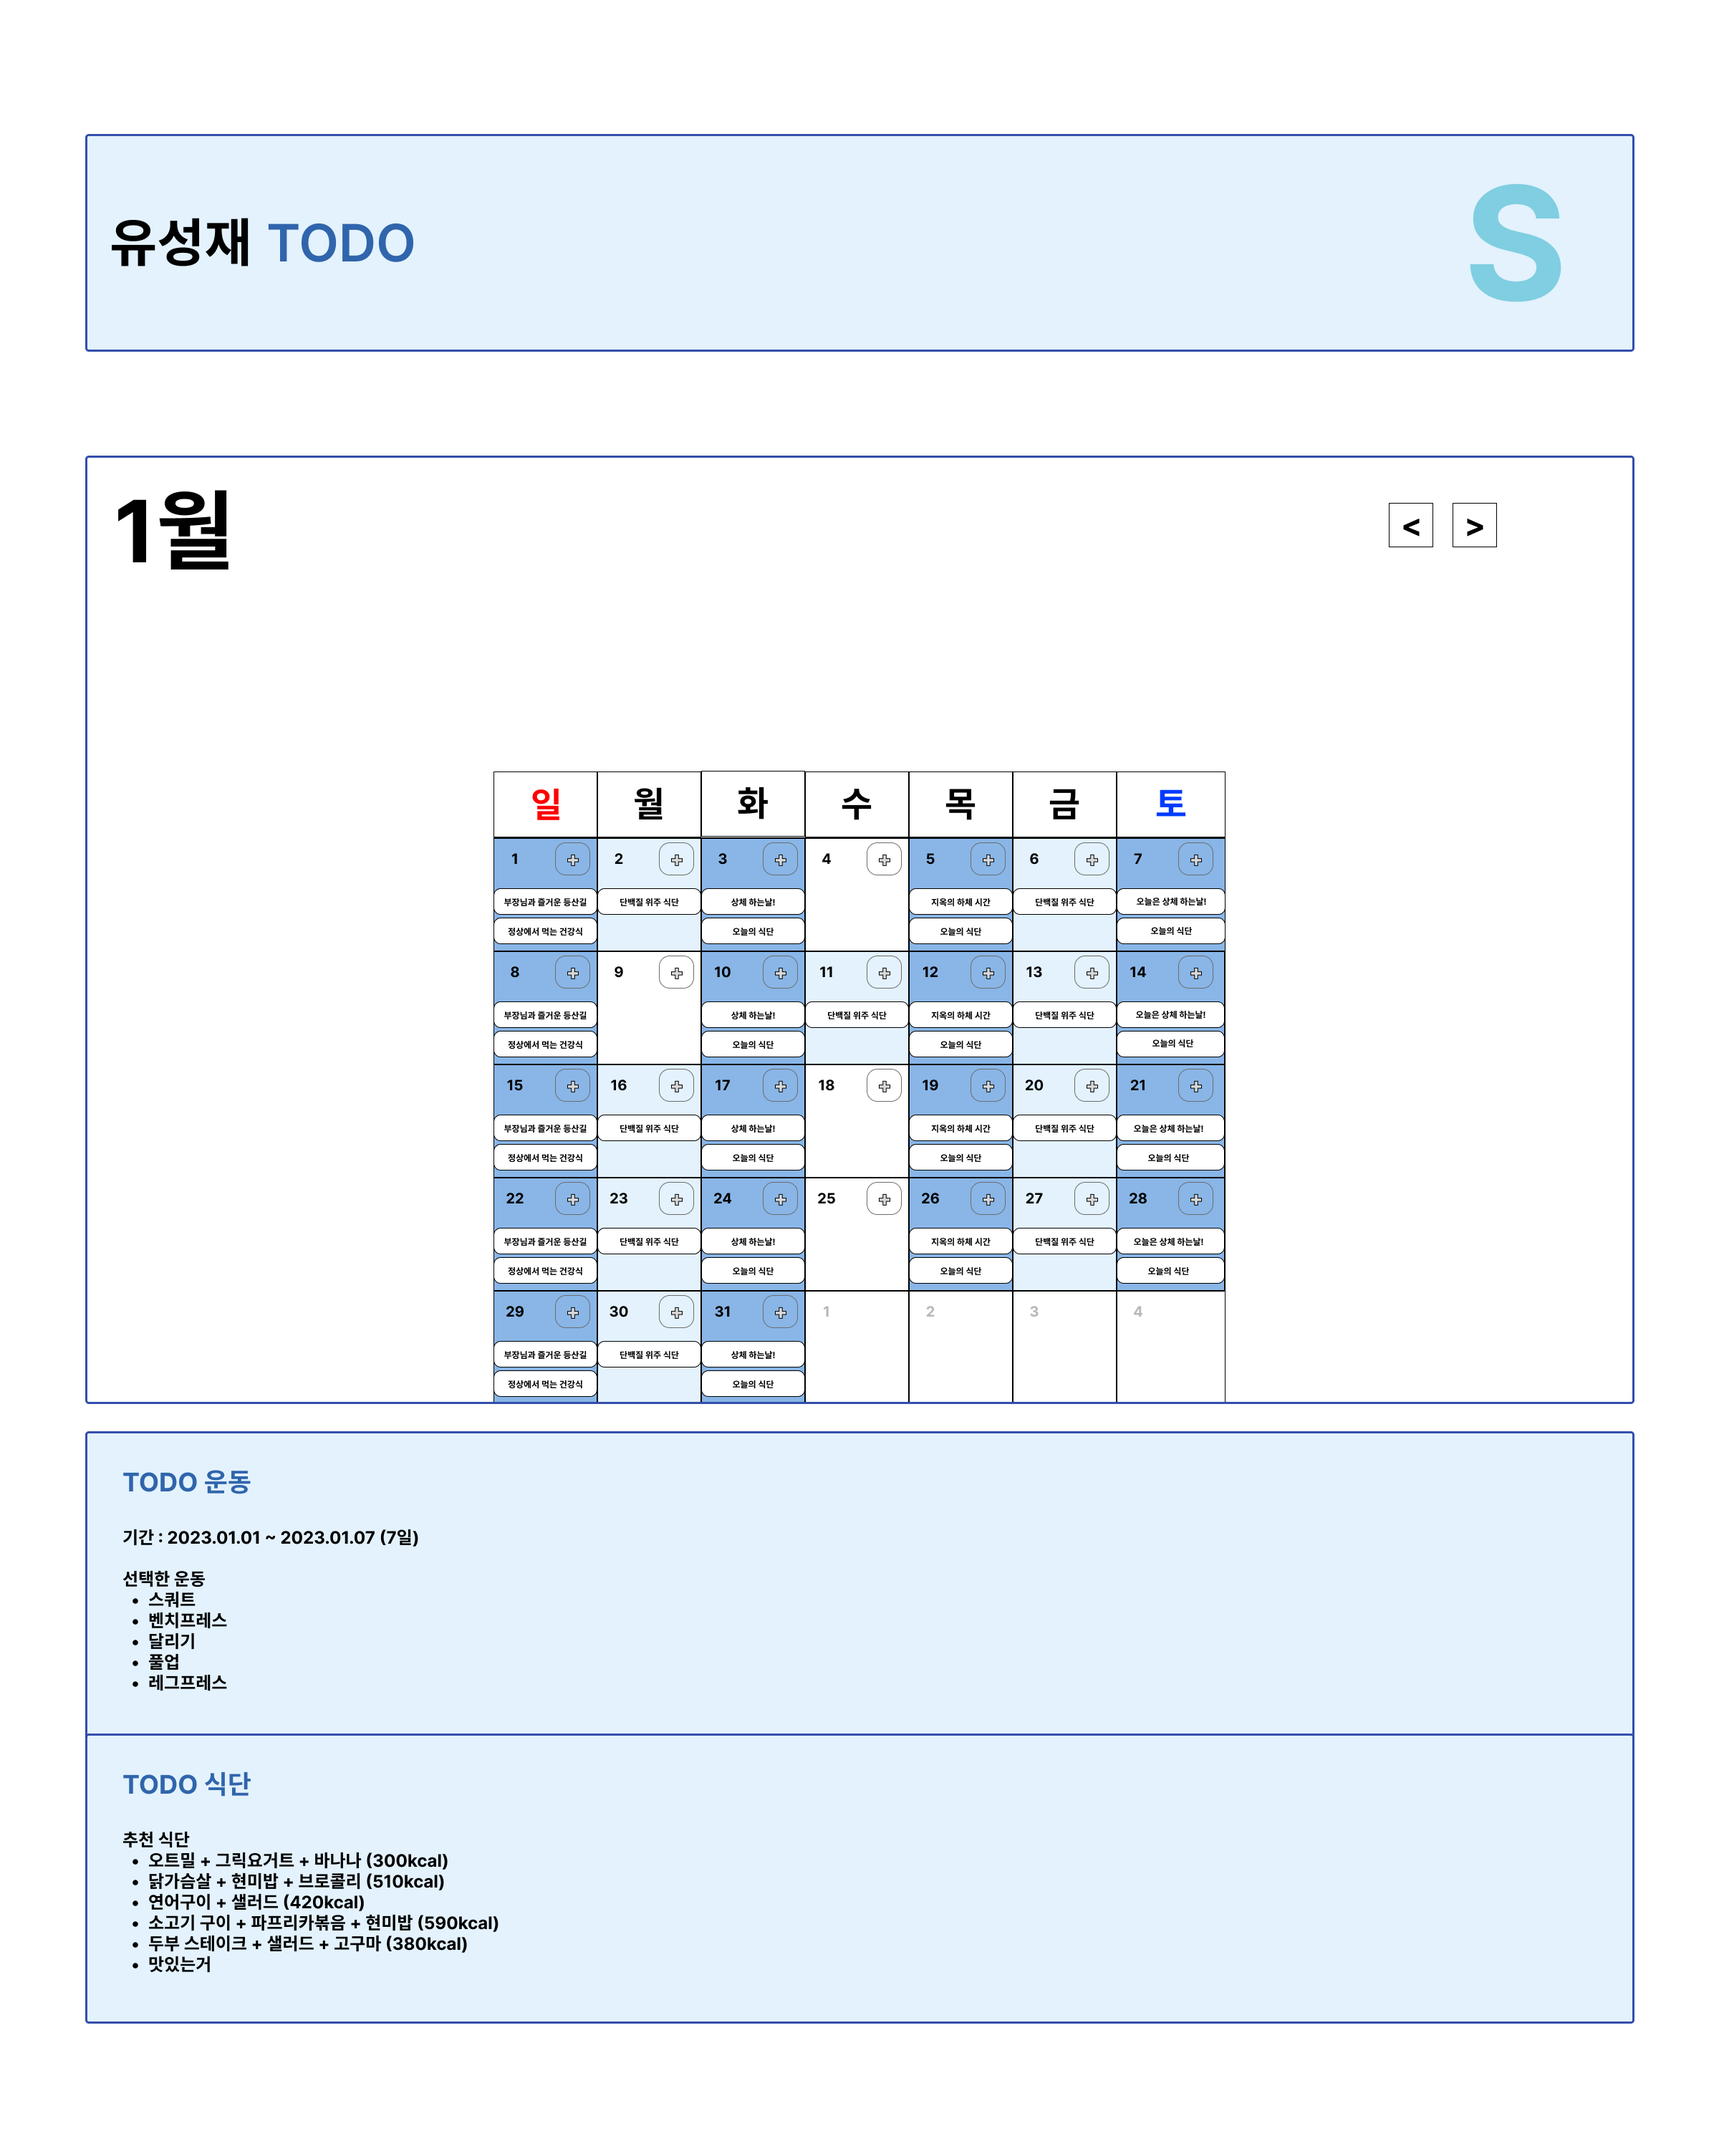
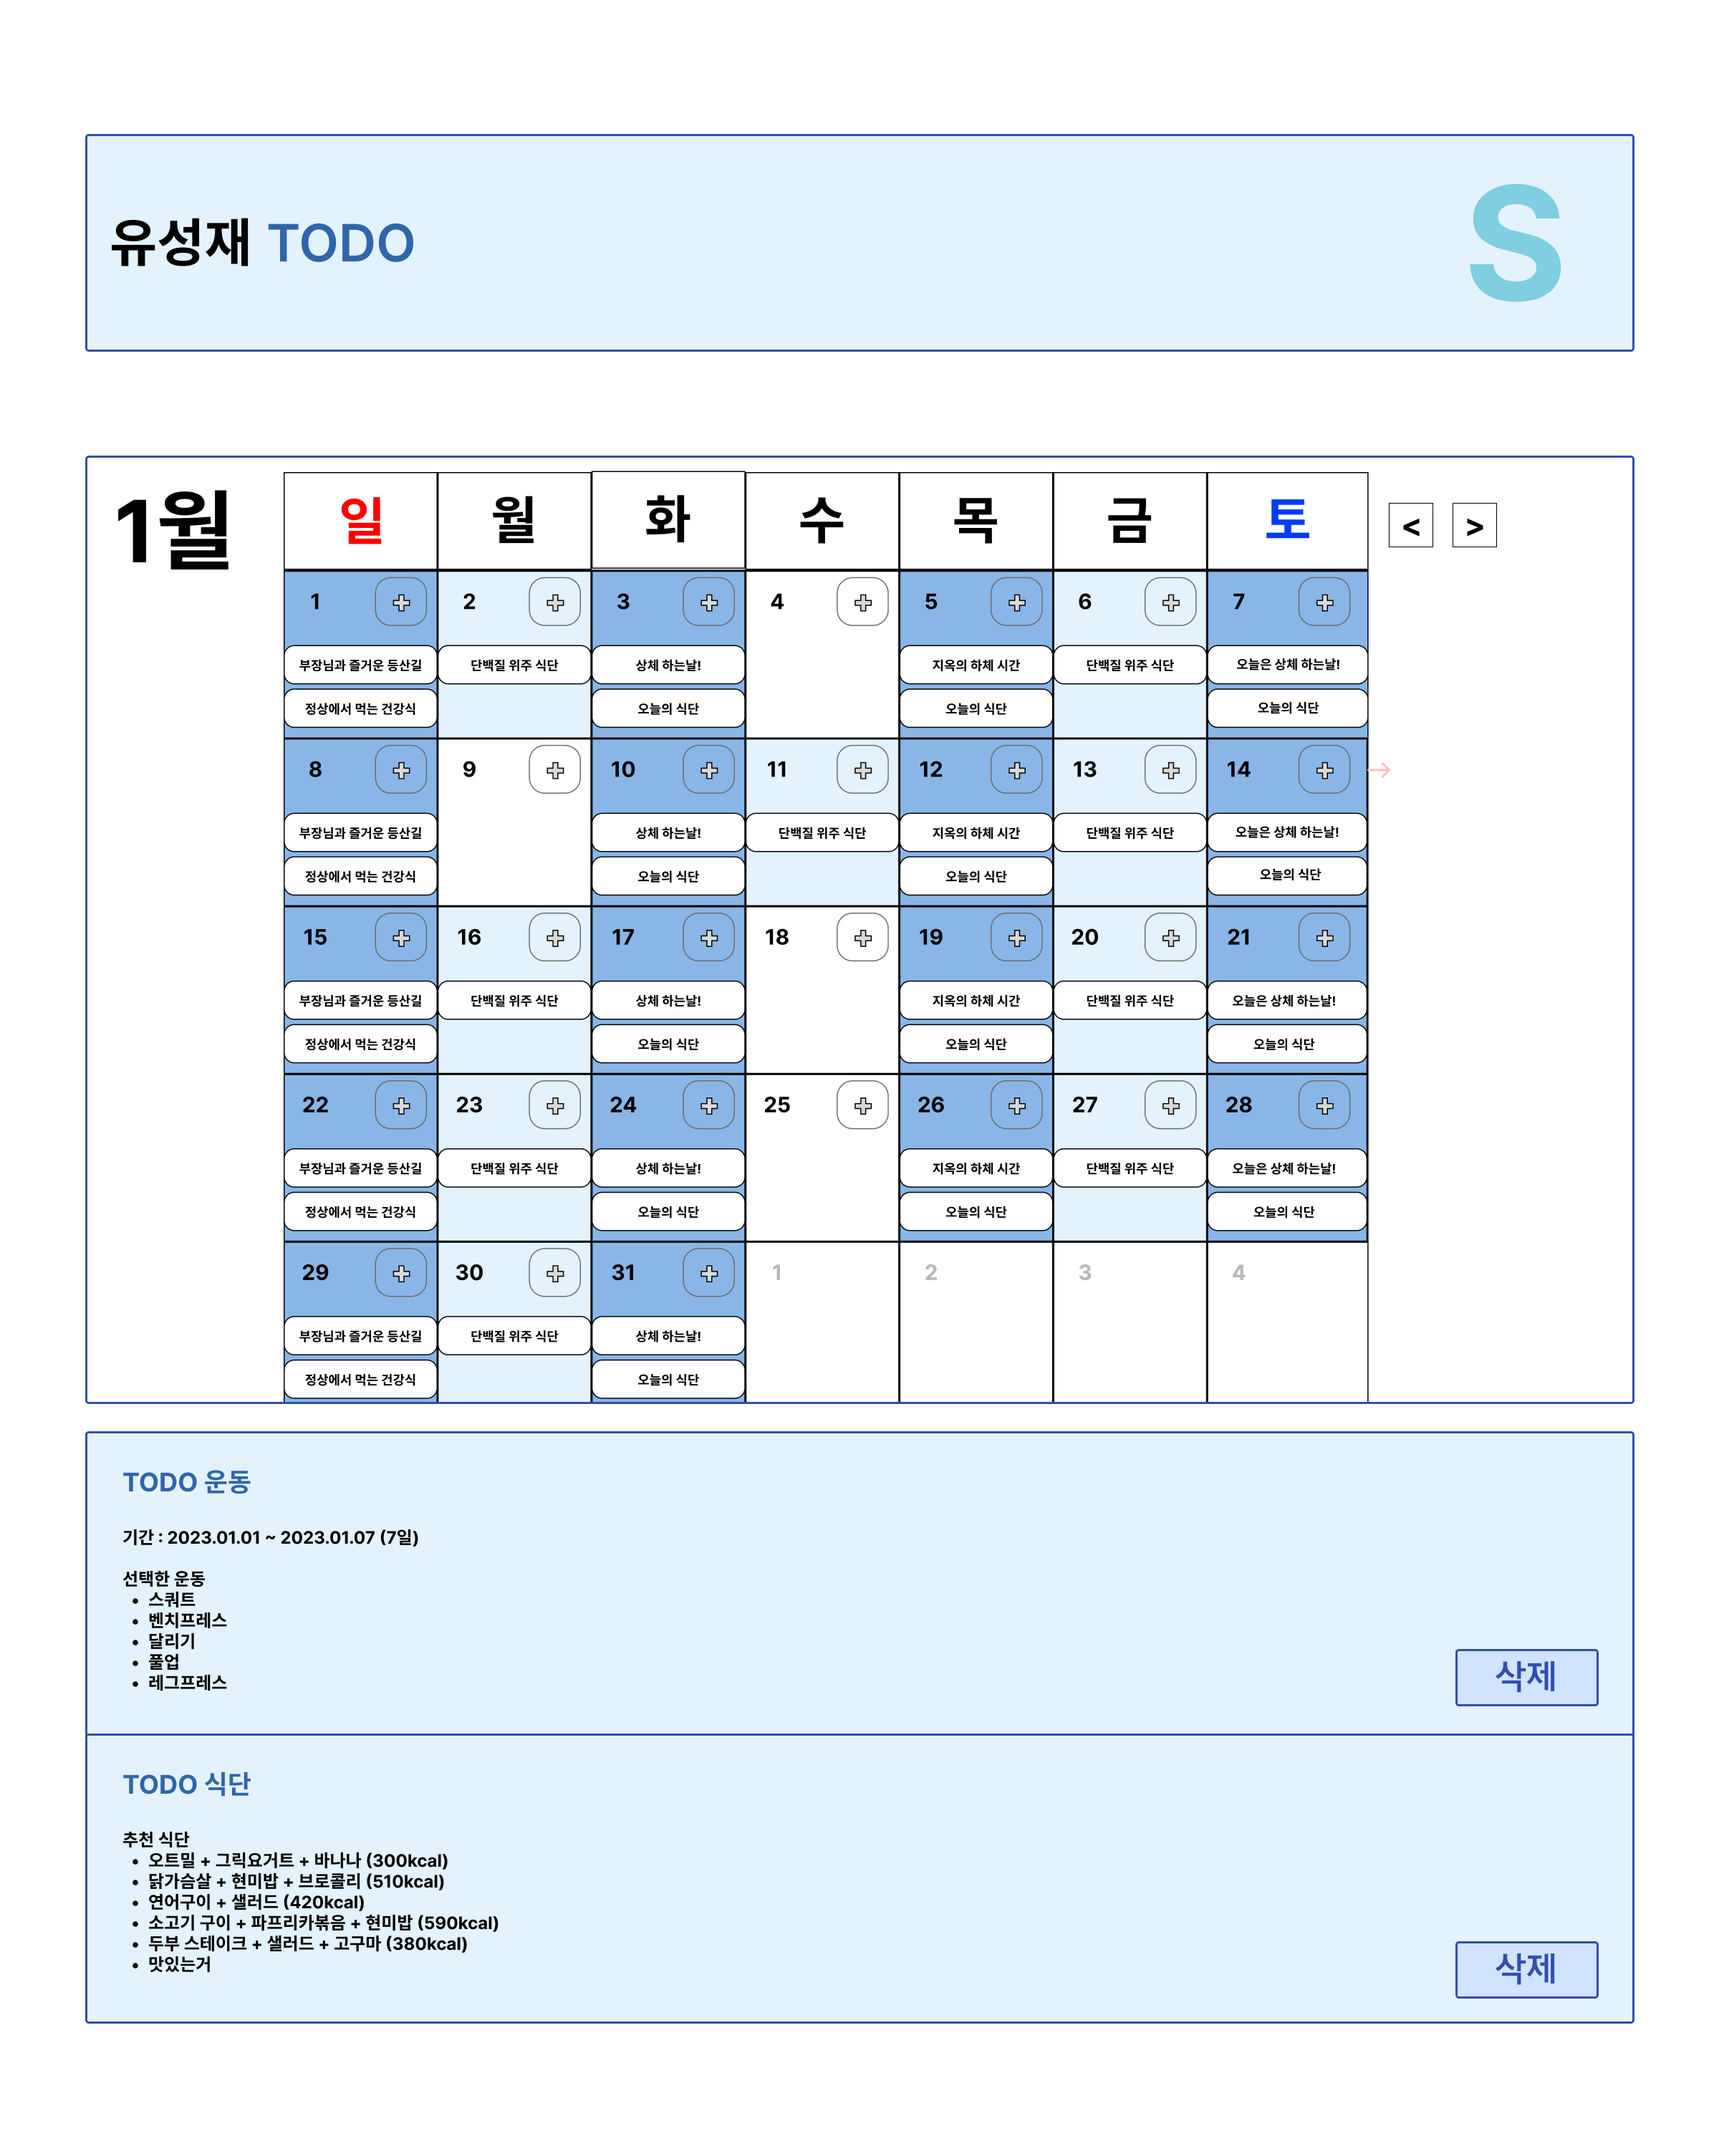
화면설계서 수정

Changed region(s): [[0.1562, 0.217, 0.8125, 0.651], [0.8438, 0.899, 0.9062, 0.93], [0.875, 0.775, 0.9062, 0.806]]

diff --git a/docs/화면설계서.md b/docs/화면설계서.md
@@ -1,13 +1,28 @@
 # 💻 화면 설계서
 <!-- ![화면설계서](./images/표지.png) -->
 
+> ## 메인페이지
+### 화면 개요
+| 화면 ID | 화면명 | 화면 설명 | 
+| --- | --- | --- |
+| Main-Page | 메인 페이지 | 사용자에 따른 권장 섭취량 계산과 커뮤니티 인기글 등을 확인할 수 있는 화면 |
+
+### 화면 이미지
+![메인페이지](./images/메인페이지.png)
+
+### UI 구성 요소
+| 요소명 | 설명 | 
+|---|---| 
+| 일일 권장 섭취량 계산기 | 사용자가 나이, 신체 정보 등을 입력하면 본인에게 권장되는 하루 권장 섭취량을 계산하여 보여주는 기능 | 
+| 인기글 Top 3 | 블로그 게시판 중 좋아요 순이 높은 3개의 게시물을 보여준다. | 
+| 건강 스트레칭 영상 | 스트레칭 관련 영상을 두가지 게시하여 사용자에게 제공한다. | 
+| 루틴 MVP | 블로그 게시판 중 작성글이 가장 많은 회원 3명을 선정하여 보여준다. | 
+
+<br><br>
 
 > ## 회원 - 회원가입
 
 ### 화면 개요
-<!-- - 화면 ID : SignUP-01
-- 화면명 : 회원 가입 페이지
-- 설명 : 사용자가 이메일, 비밀번호, 휴대폰 번호를 입력하여 계정을 생성하는 화면 -->
 
 | 화면 ID | 화면명 | 화면 설명 | 
 | --- | --- | --- |
@@ -136,7 +151,6 @@
 
 > ## 회원 - 회원 탈퇴
 
-<!-- ![마이페이지-탈퇴-비밀번호확인](./images/member/마이페이지(탈퇴-비밀번호%20확인).png) -->
 <img src="./images/member/마이페이지(탈퇴-비밀번호 확인).png" width="400px" />
 
 ### UI 구성 요소
@@ -171,13 +185,33 @@
 | EXE-01  | 운동 목적 설정페이지 | 사용자가 운동 목적을 설정하는 페이지 |
 
 ### 화면 이미지
-![운동-목적설정](./images/exercise/운동(목적설정).png)
+![운동-목적설정](./images/exercise/운동%20추천%20입력%20페이지.png)
 
 ### UI 구성 요소
 | 요소명 | 설명 | 유효성 |  
 |---|---|---| 
 | 운동 목적 | 사용자가 원하는 운동 목적을 설정 | 네가지 중 한가지를 선택할 수 있다. |
-| 다음 버튼 | 다음 페이지로 이동하는 버튼 | 운동 목적을 선택해야만 버튼이 활성화 된다. | 
+| 시작일 | 사용자가 운동을 시작하고자 하는 날을 설정할 수 있다. | 기본 금일 |
+| 종료일 | 사용자가 운동을 종료하고자 하는 날을 설정할 수 있다. | | 
+| 다음 버튼 | 다음 페이지로 이동하는 버튼 | 모든 요소를 입력해야 버튼이 활성화 된다. | 
+
+<br><br>
+
+> ## 운동 - 목표 설정
+### 화면 개요
+| 화면 ID | 화면명 | 화면 설명 | 
+| --- | --- | --- |
+| EXE-01 | 운동 목표 설정 페이지 | 목적이 체중감량인 사용자에 한하여 목표 몸무게를 설정하는 화면 |
+
+### 화면 이미지
+![운동-목표설정](./images/exercise/운동%20목표%20설정%20페이지2.png)
+
+### UI 구성 요소
+| 요소명 | 설명 | 유효성 |  
+|---|---|---| 
+| 활동 수준 | 사용자의 평소 활동 수준을 선택 |  | 
+| 목표 몸무게 | 감량하고자 하는 목표 몸무게를 설정한다. | 현재 몸무게 이상으로는 설정할 수 없다. | 
+| 다음 버튼 | 다음 페이지로 이동하는 버튼 | 모든 요소 입력 후 이동 가능하다. |  
 
 <br><br>
 
@@ -185,54 +219,54 @@
 ### 화면 개요
 | 화면 ID | 화면명 | 화면 설명 | 
 | --- | --- | --- |
-| EXE-02 | 운동 반복일 설정 페이지 | 사용자가 원하는 운동 반복 일수를 선택하는 화면이다. |
+| EXE-02 | 운동 반복일 설정 페이지 | 사용자가 운동 반복일을 선택하는 화면 |
 
 ### 화면 이미지
-![운동-반복일설정](./images/exercise/운동(반복일%20설정).png)
-
-### UI 구성 요소
-| 요소명 | 설명 | 유효성 |  
-|---|---|---| 
-| 반복일 설정 | 사용자가 원하는 반복 일수를 선택 | 최소 하루부터 최대 일주일까지 설정 가능하다. | 
-| 다음 버튼 | 다음 페이지로 이동하는 버튼 | 운동 반복일을 선택해야만 버튼이 활성화 된다. |  
-
-<br><br>
-
-> ## 운동 - 루틴 설정
-### 화면 개요
-| 화면 ID | 화면명 | 화면 설명 | 
-| --- | --- | --- |
-| EXE-03 | 운동 리스트 선택 페이지 | 사용자가 운동을 선택하는 화면 |
-
-### 화면 이미지
-![운동-리스트](./images/exercise/운동(리스트).png)
+![운동-리스트](./images/exercise/운동%20반복일%20설정%20페이지2.jpg)
 
 ### UI 구성 요소
 | 요소명 | 설명 |
 |---|---|
-| 나만의 운동 | 사용자가 직접 루틴을 구성할 수 있는 4가지의 카테고리가 제공된다. | 
-| FIT-ROUTINE | 유산소, 근력 루틴이 짜여져 있는 채로 사용자에게 제공된다. | 
+| 반복일 | 최소 하루부터 최대 7일까지 반복일을 설정할 수 있다. | 
+| 다음 버튼 | 반복일 선택 후 다음 페이지로 이동한다. | 
 
----
-### 리스트 선택
-![운동-리스트선택](./images/exercise/운동(리스트%20선택).png)
-<img src="./images/exercise/운동(리스트-시간 설정).png" width="400px">
+## 운동 - 루틴 추천
+### 화면 개요
+| 화면 ID | 화면명 | 화면 설명 | 
+| --- | --- | --- |
+| EXE-03 | 루틴 추천 페이지 | 반복일에 따른 루틴을 추천해주는 화면 | 
 
-| 요소명 | 설명 |  
+### 화면 이미지
+![운동-루틴추천](./images/exercise/루틴%20추천.png)
+
+### UI 구성 요소
+| 요소명 | 설명 |
 |---|---|
-| 카테고리 선택 | 해당 카테고리에 속한 운동 목록들이 표시된다. | 
-| 운동 시간 설정 | 체크리스트의 운동을 선택하면 해당 운동에 대한 시간을 5분 단위로 최대 60분까지 설정할 수 있다. | 
-| 선택 운동 리스트 | 사용자가 선택한 운동 리스트들이 표기된다. 리스트를 통해서 체크 해제 또한 가능하다. | 
+| n일차 루틴 | 사용자가 설정한 반복일에 따라 일차 수마다 루틴을 랜덤으로 제공해준다. | 
+| + 버튼 | 사용자가 직접 운동을 추가할 수 있다. | 
+| 루틴 등록 버튼 | 루틴 등록 후에 투두리스트 페이지로 이동한다. | 
+
+<br><br>
+
+### 화면 개요
+| 화면 ID | 화면명 | 화면 설명 | 
+| --- | --- | --- |
+| EXE-03 | 루틴 추천 페이지 | 사용자가 원하는 운동을 선택하는 화면 |
+
+### 화면 이미지
+![운동-루틴추천](./images/exercise/루틴%20추천(사용자%20수정).png)
+
+### UI 구성 요소
+| 요소명 | 설명 |
+|---|---|
+| 카테고리 | 상체, 하체, 전신, 생활운동 네가지 카테고리 중 선택 가능하다. | 
 
 ### 유효성 검사 및 오류 메시지 
 운동 목적에 따른 유효성 검사
-- 운동 목적이 체중감량이 아닌 사용자  
-선택한 운동에 대한 소모 칼로리를 표시해 준다.  
-![운동-유효성검사1](./images/exercise/운동(리스트%20선택-유효성%20검사1).png)  
+- 운동 목적이 체중감량인 사용자
+![운동-유효성검사](./images/exercise/루틴추천(체중감량-미달).png)
+목적이 체중감량인 사용자가 추천 루틴을 해제하여 목표 소모 칼로리에 미달될 경우 메시지를 표시해 준다.
 
-- 운동 목적이 체중감량인 사용자  
-체중감량을 위한 목표 소모 칼로리에 도달해야만 버튼이 활성화 되며 루틴을 등록할 수 있다.
-![운동-유효성검사2](./images/exercise/운동(리스트%20선택-유효성%20검사2).png)
 
 <br><br>
 
